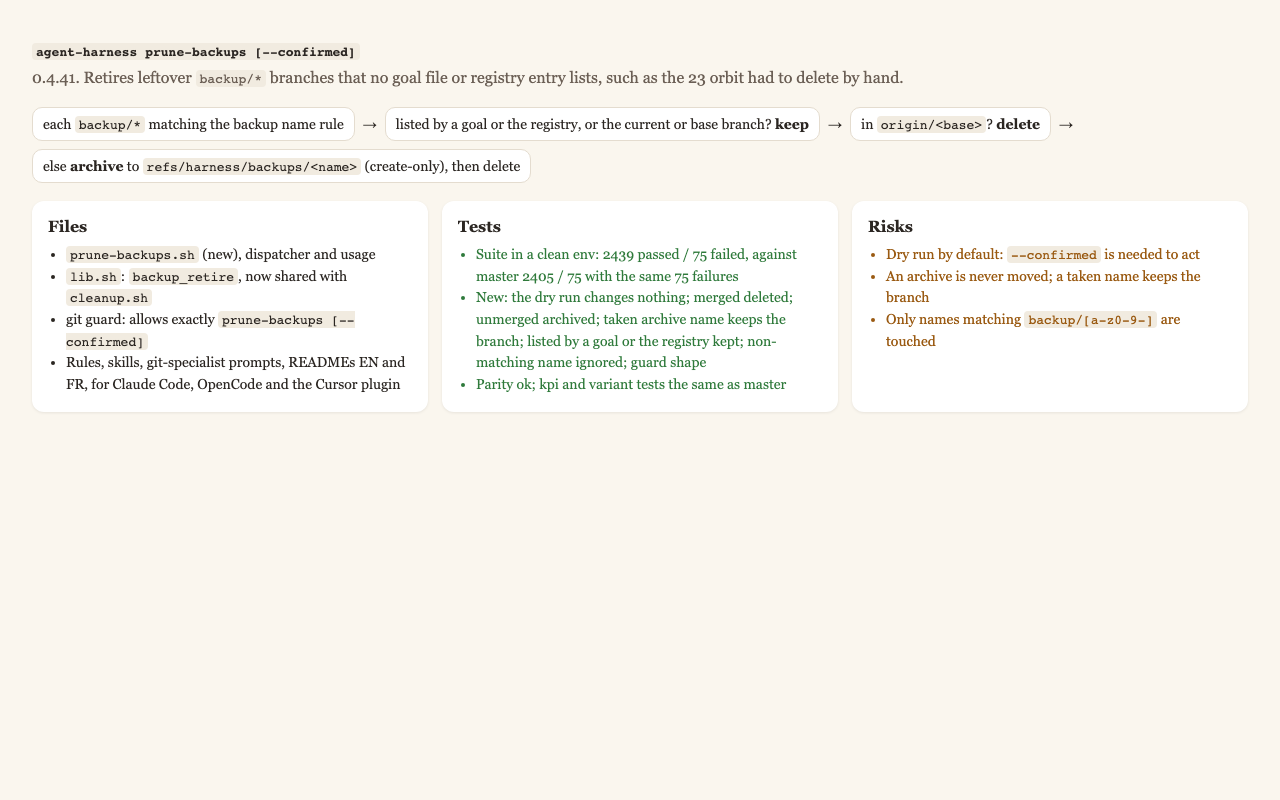
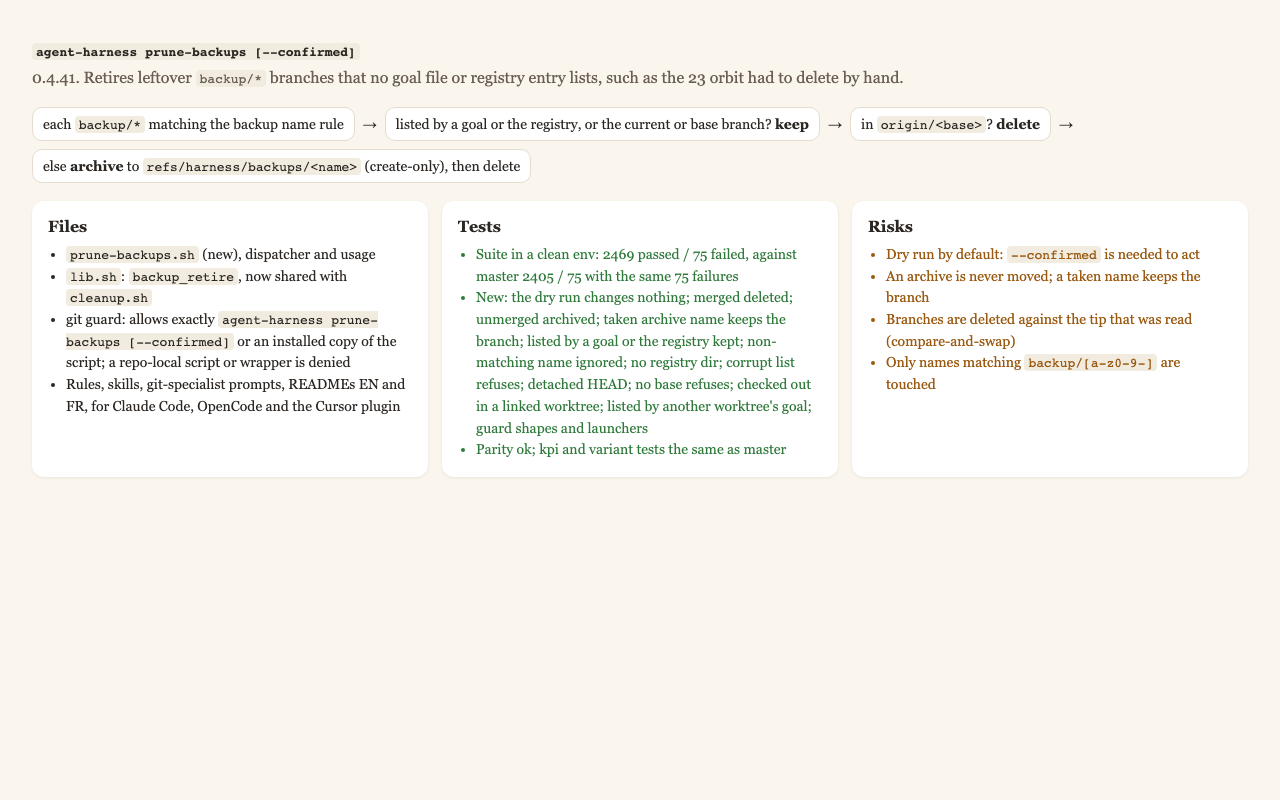
fix(harness): prune-backups works with no registry, refuses a corrupt list, deletes by compare-and-swap; guard pins its launchers
Harness: fmflurry-harness@0.4.40
Harness-SHA: 5f9a7ae747155ddd197bbf0e103956cf14d3792d-dirty
Session-Id: 34f99bbe-62bf-491b-82b6-d356fd205264

diff --git a/docs/pr-reports/feat-harness-prune-backups.html b/docs/pr-reports/feat-harness-prune-backups.html
@@ -23,14 +23,14 @@ h1{font-size:26px;margin:0 0 6px}p.sub{margin:0 0 20px;color:#6b5f55}
 <div class="card"><h2>Files</h2><ul>
 <li><code>prune-backups.sh</code> (new), dispatcher and usage</li>
 <li><code>lib.sh</code>: <code>backup_retire</code>, now shared with <code>cleanup.sh</code></li>
-<li>git guard: allows exactly <code>prune-backups [--confirmed]</code></li>
+<li>git guard: allows exactly <code>agent-harness prune-backups [--confirmed]</code> or an installed copy of the script; a repo-local script or wrapper is denied</li>
 <li>Rules, skills, git-specialist prompts, READMEs EN and FR, for Claude Code, OpenCode and the Cursor plugin</li></ul></div>
 <div class="card"><h2>Tests</h2><ul class="ok">
-<li>Suite in a clean env: 2439 passed / 75 failed, against master 2405 / 75 with the same 75 failures</li>
-<li>New: the dry run changes nothing; merged deleted; unmerged archived; taken archive name keeps the branch; listed by a goal or the registry kept; non-matching name ignored; guard shape</li>
+<li>Suite in a clean env: 2469 passed / 75 failed, against master 2405 / 75 with the same 75 failures</li>
+<li>New: the dry run changes nothing; merged deleted; unmerged archived; taken archive name keeps the branch; listed by a goal or the registry kept; non-matching name ignored; no registry dir; corrupt list refuses; detached HEAD; no base refuses; checked out in a linked worktree; listed by another worktree's goal; guard shapes and launchers</li>
 <li>Parity ok; kpi and variant tests the same as master</li></ul></div>
 <div class="card"><h2>Risks</h2><ul class="risk">
 <li>Dry run by default: <code>--confirmed</code> is needed to act</li>
-<li>An archive is never moved; a taken name keeps the branch</li>
+<li>An archive is never moved; a taken name keeps the branch</li><li>Branches are deleted against the tip that was read (compare-and-swap)</li>
 <li>Only names matching <code>backup/[a-z0-9-]</code> are touched</li></ul></div>
 </div></body></html>
